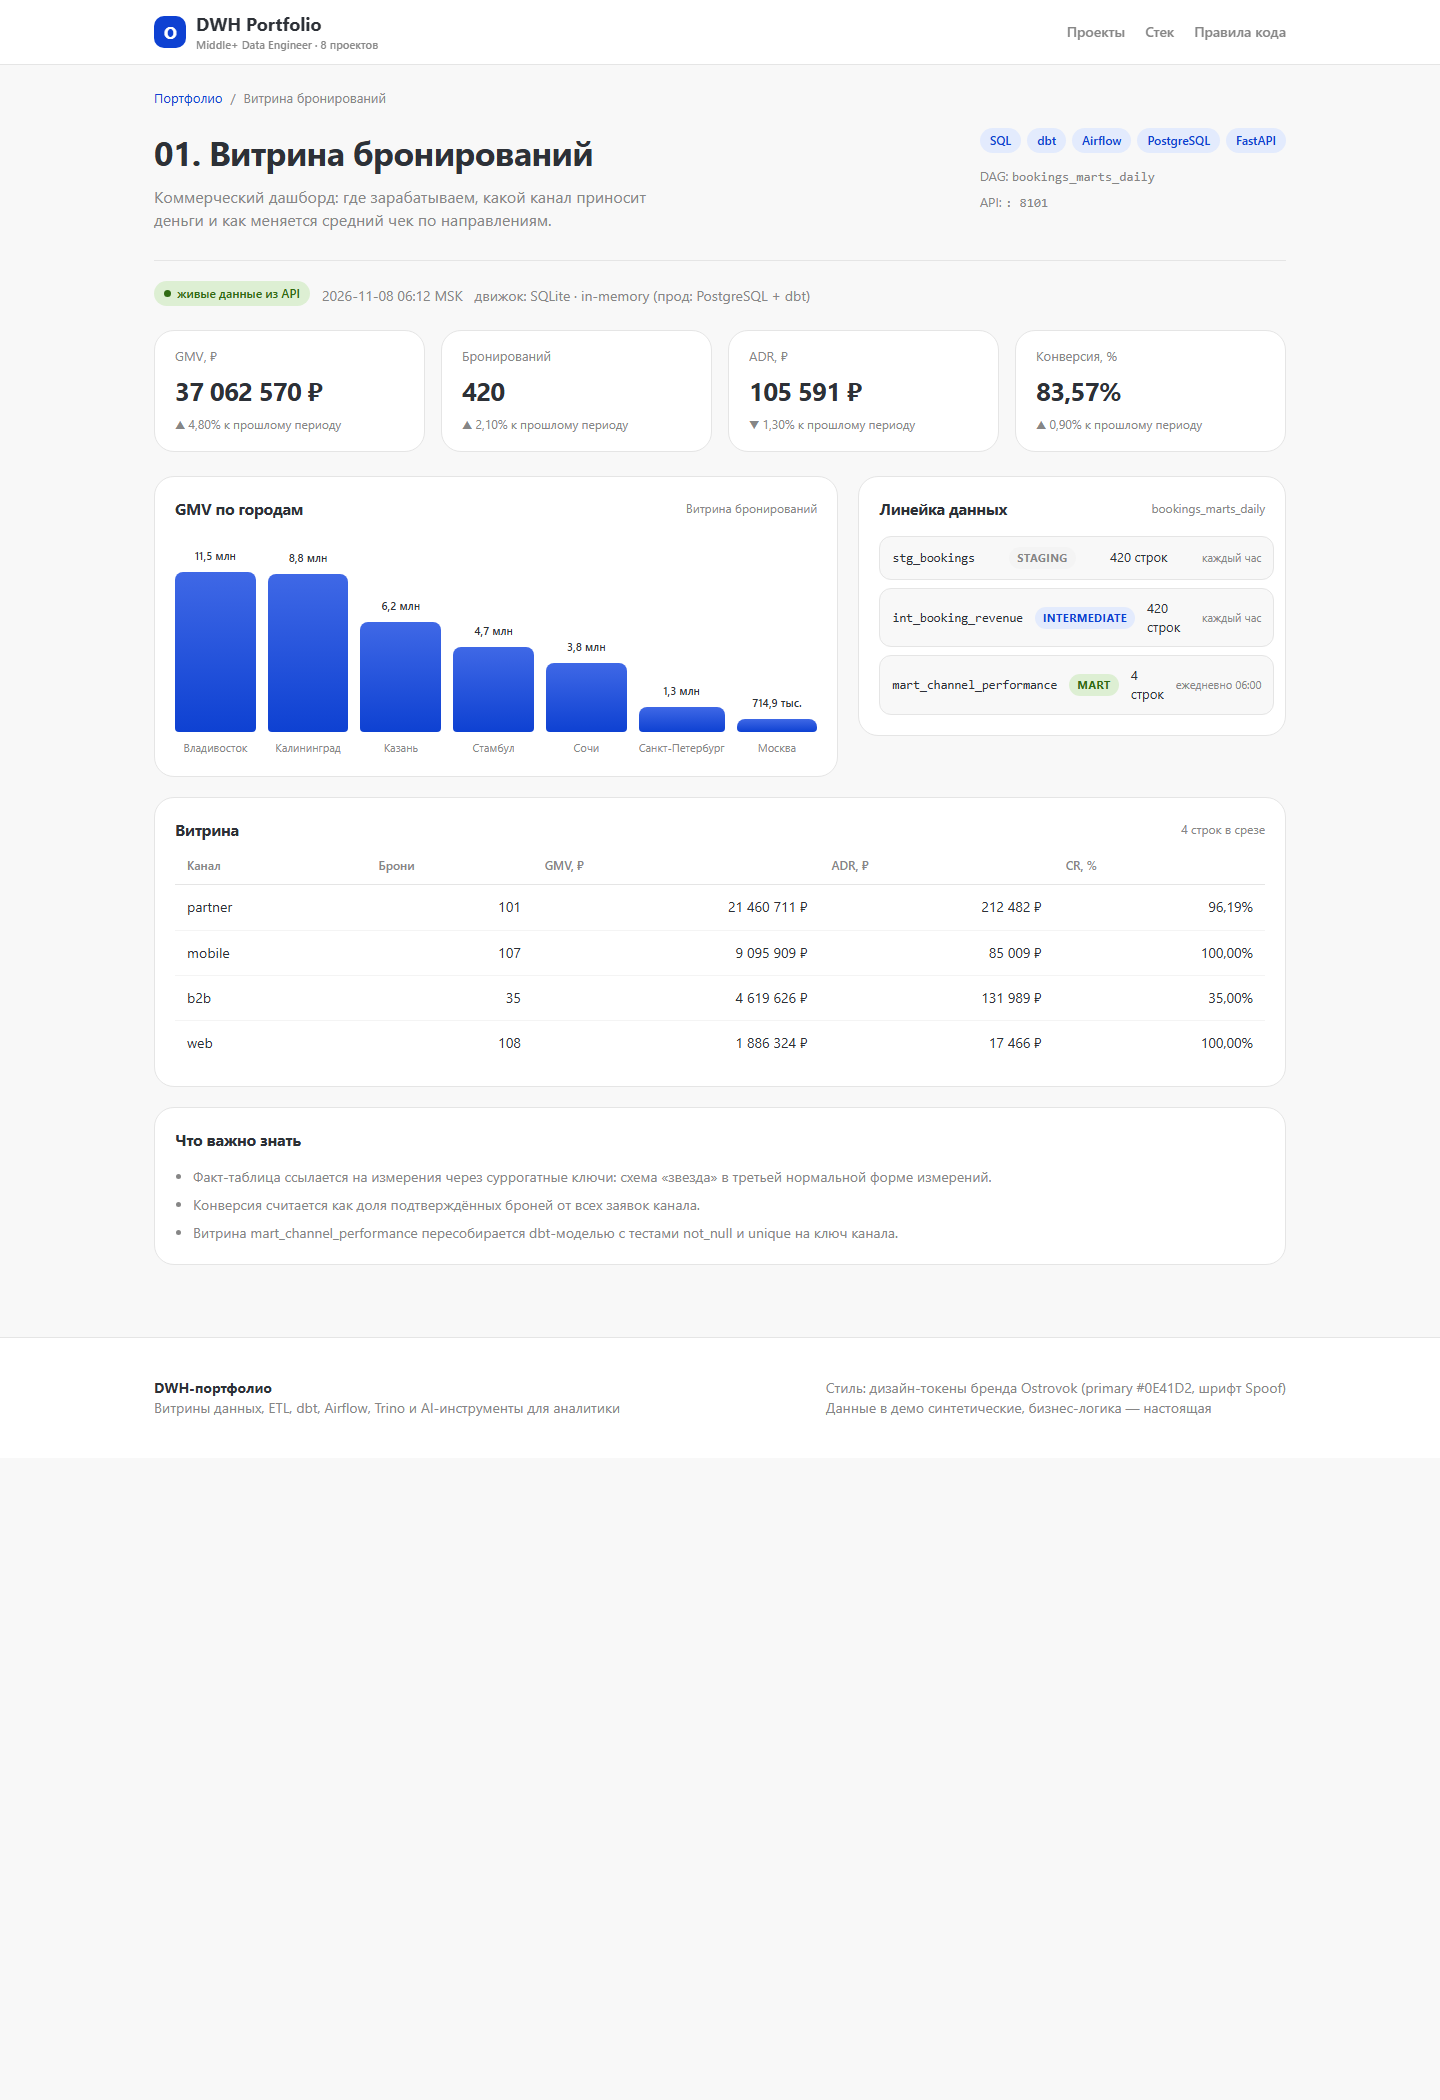
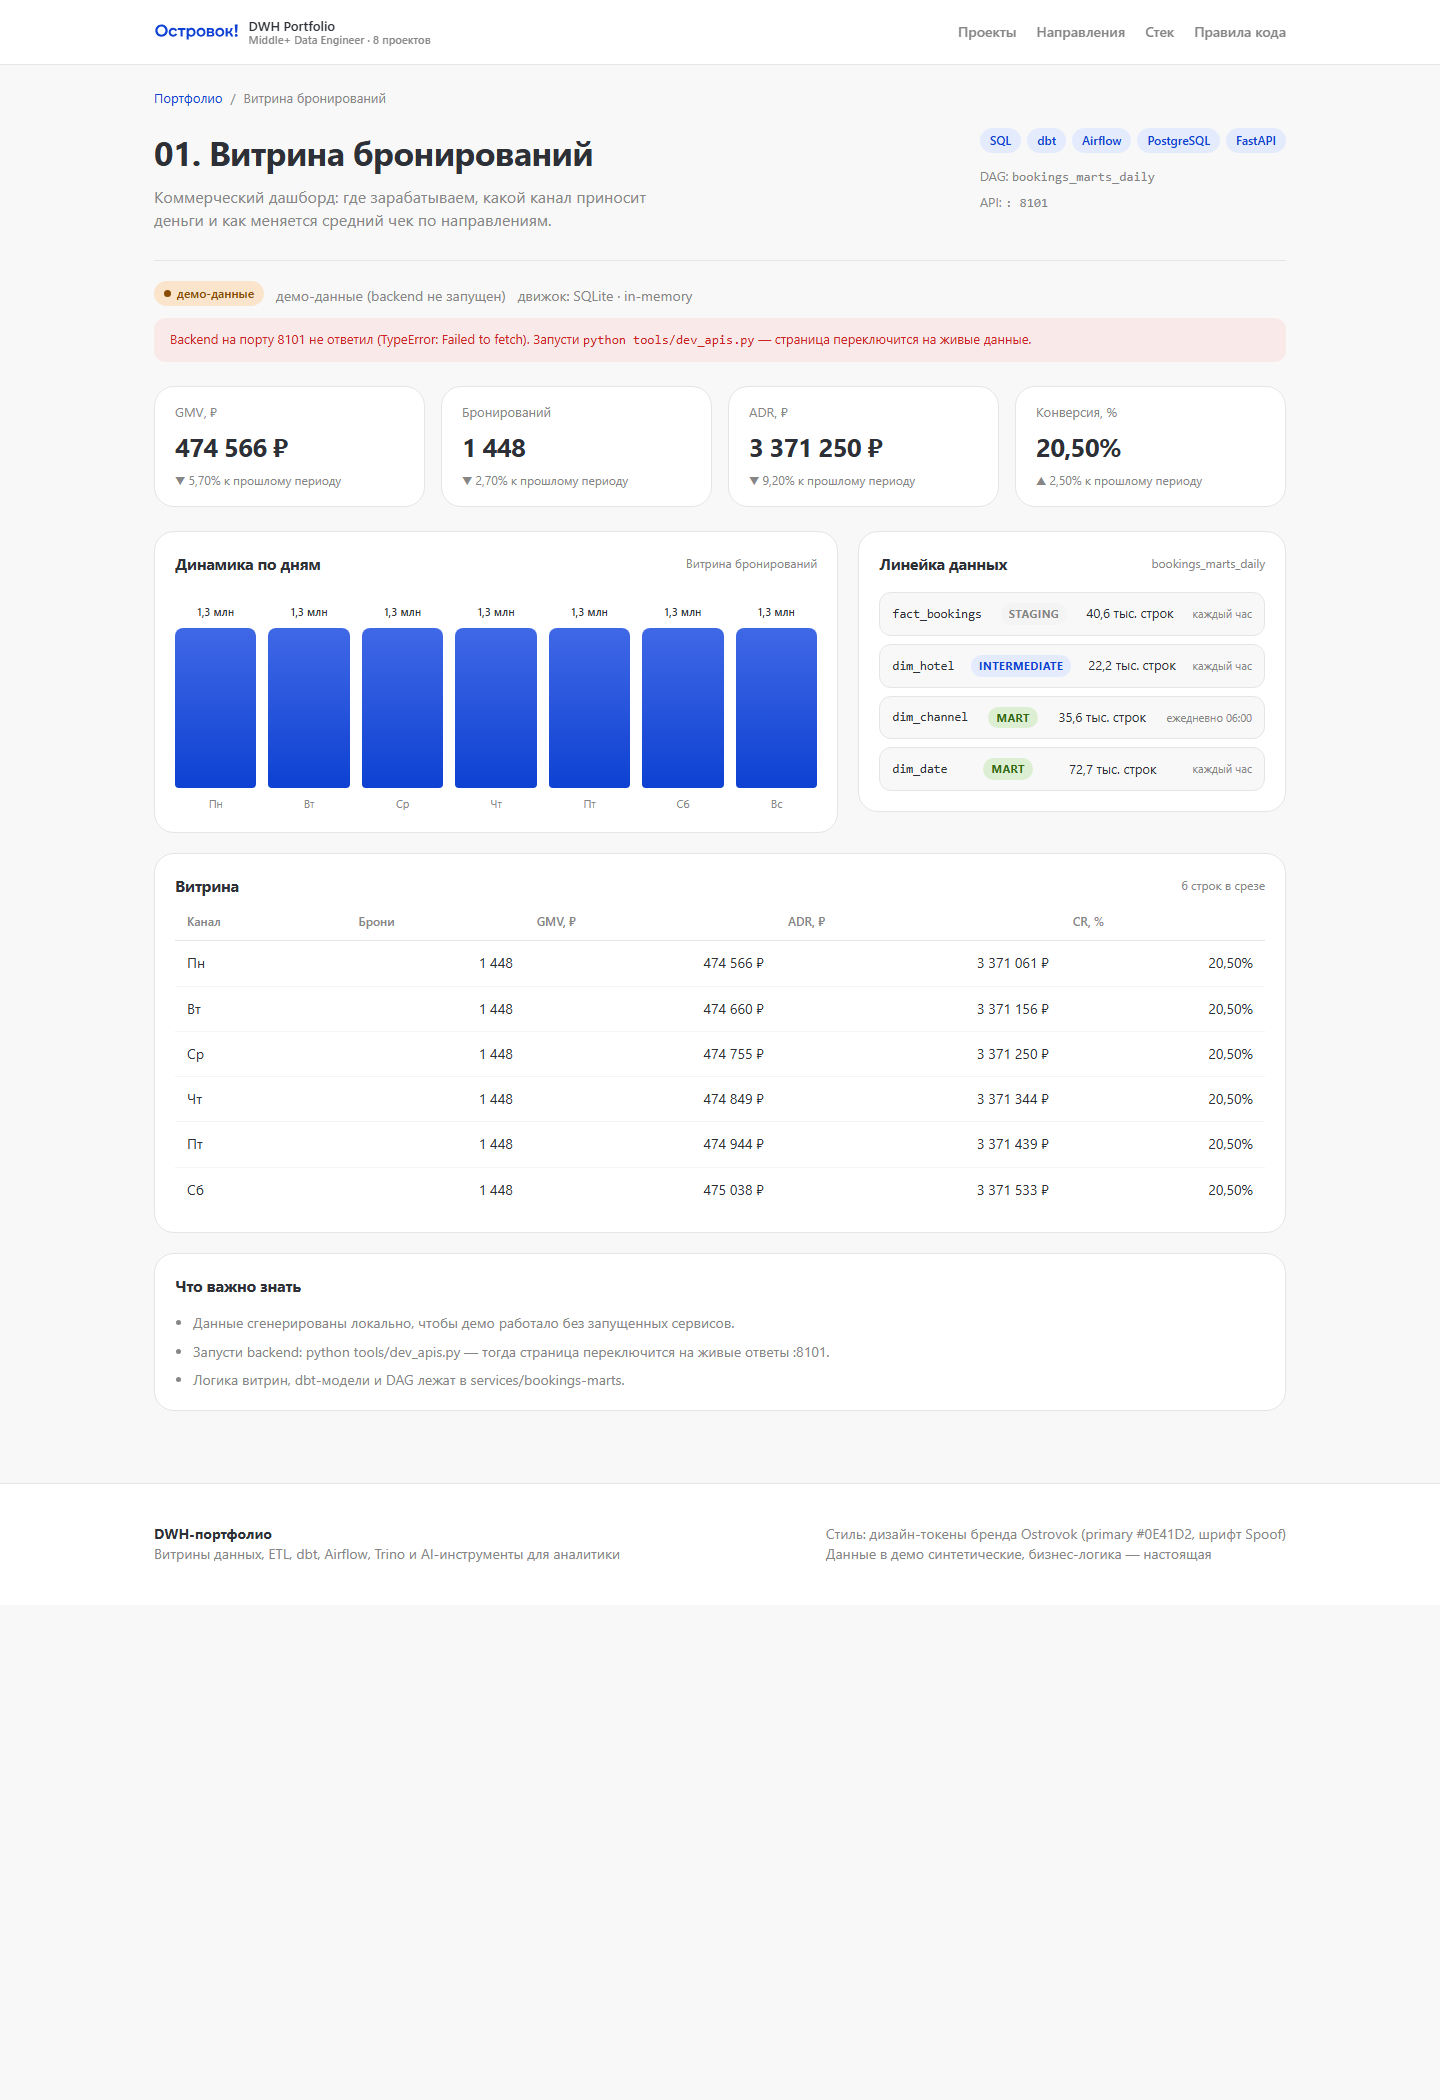
Добавить фирменные фото Островка: лендинг с направлениями и полоса фото в кокпите

diff --git a/apps/web/components/landing/hero.tsx b/apps/web/components/landing/hero.tsx
@@ -28,18 +28,27 @@ export const Hero = () => (
         </Link>
       </div>
     </div>
-    <div className="search-card">
-      <div className="panel-head" style={{ marginBottom: 0 }}>
-        <h2>Стек из вакансии → покрыт</h2>
-        <span>8/8</span>
-      </div>
-      <div className="stack-list">
-        {STACK_FROM_VACANCY.map((item) => (
-          <div key={item} className="pipeline-node">
-            <span>{item}</span>
-            <span className="layer layer-mart">есть</span>
-          </div>
-        ))}
+    <div className="stack" style={{ gap: 12 }}>
+      <figure className="photo-card hero-photo">
+        <img src="/brand/hero.jpg" alt="Направления Островка" />
+        <figcaption>
+          <b>Путешествия начинаются с данных</b>
+          <span>3 000 000+ вариантов размещения · 100 ТБ данных · 30 000 запросов в секунду</span>
+        </figcaption>
+      </figure>
+      <div className="search-card">
+        <div className="panel-head" style={{ marginBottom: 0 }}>
+          <h2>Стек из вакансии → покрыт</h2>
+          <span>8/8</span>
+        </div>
+        <div className="stack-list">
+          {STACK_FROM_VACANCY.map((item) => (
+            <div key={item} className="pipeline-node">
+              <span>{item}</span>
+              <span className="layer layer-mart">есть</span>
+            </div>
+          ))}
+        </div>
       </div>
     </div>
   </section>

diff --git a/apps/web/components/landing/destinations.tsx b/apps/web/components/landing/destinations.tsx
@@ -1,0 +1,31 @@
+const PLACES = [
+  { img: '/brand/tbilisi.jpg', city: 'Тбилиси', note: 'старый город и термы' },
+  { img: '/brand/kamchatka.jpg', city: 'Камчатка', note: 'вулканы и океан' },
+  { img: '/brand/kareliya.jpg', city: 'Карелия', note: 'озёра и леса' },
+  { img: '/brand/murmansk.jpg', city: 'Мурманск', note: 'северное сияние' },
+  { img: '/brand/bali.jpg', city: 'Бали', note: 'серфинг и рисовые террасы' },
+  { img: '/brand/phuket.jpg', city: 'Пхукет', note: 'пляжи Андаманского моря' },
+];
+
+export const DestinationsSection = () => (
+  <section id="destinations" style={{ marginBottom: 56 }}>
+    <div className="section-head">
+      <div>
+        <h2>Направления, которые считает витрина</h2>
+        <p>Каждая карточка — строка в витрине: брони, ADR, отмены и покрытие по направлению.</p>
+      </div>
+      <span className="tag tag-accent">фото с ostrovok.ru</span>
+    </div>
+    <div className="photo-grid">
+      {PLACES.map((place) => (
+        <figure className="photo-card" key={place.city}>
+          <img src={place.img} alt={place.city} loading="lazy" />
+          <figcaption>
+            <b>{place.city}</b>
+            <span>{place.note}</span>
+          </figcaption>
+        </figure>
+      ))}
+    </div>
+  </section>
+);

diff --git a/apps/web/app/globals.css b/apps/web/app/globals.css
@@ -735,3 +735,69 @@ pre.sql {
     flex-direction: column;
   }
 }
+
+.brand-logo {
+  height: 26px;
+  width: auto;
+  display: block;
+}
+
+.brand-sub {
+  display: block;
+  font-size: 13px;
+  font-weight: 600;
+  line-height: 1.2;
+}
+
+.photo-grid {
+  display: grid;
+  grid-template-columns: repeat(auto-fit, minmax(220px, 1fr));
+  gap: var(--sp-lg);
+}
+
+.photo-card {
+  margin: 0;
+  background: #fff;
+  border: 1px solid var(--neutral-10);
+  border-radius: var(--r-lg);
+  overflow: hidden;
+  box-shadow: var(--shadow-card);
+  transition: transform 0.16s ease, box-shadow 0.16s ease;
+}
+
+.photo-card:hover {
+  transform: translateY(-2px);
+  box-shadow: var(--shadow-pop);
+}
+
+.photo-card img {
+  display: block;
+  width: 100%;
+  height: 140px;
+  object-fit: cover;
+}
+
+.photo-card figcaption {
+  padding: 12px 14px;
+  display: grid;
+  gap: 2px;
+}
+
+.photo-card figcaption b {
+  font-size: 15px;
+}
+
+.photo-card figcaption span {
+  font-size: 12.5px;
+  color: var(--text-secondary);
+}
+
+.hero-photo img {
+  height: 190px;
+}
+
+@media (max-width: 940px) {
+  .photo-card img {
+    height: 120px;
+  }
+}

diff --git a/apps/cockpit/app/page.tsx b/apps/cockpit/app/page.tsx
@@ -5,6 +5,7 @@ import { DataGrid } from '@/components/data-grid';
 import { HealthStrip } from '@/components/health-strip';
 import { KpiTile } from '@/components/kpi-tile';
 import { PageHead } from '@/components/page-head';
+import { PhotoStrip } from '@/components/photo-strip';
 import { TrendChart } from '@/components/trend-chart';
 import { useScreen } from '@/lib/api';
 import type { Column, Overview } from '@/lib/types';
@@ -64,6 +65,14 @@ export default function OverviewPage() {
           <span>{data ? `${data.destinations.length} городов` : ''}</span>
         </div>
         <DataGrid columns={COLUMNS} rows={data?.destinations ?? []} />
+      </div>
+
+      <div className="card" style={{ marginTop: 12 }}>
+        <div className="card-head">
+          <h2>Популярные направления</h2>
+          <span>фото с ostrovok.ru</span>
+        </div>
+        <PhotoStrip />
       </div>
 
       <div className="card" style={{ marginTop: 12 }}>

diff --git a/apps/cockpit/app/globals.css b/apps/cockpit/app/globals.css
@@ -697,3 +697,52 @@ pre.sql {
     grid-template-columns: 1fr;
   }
 }
+
+.logo-image {
+  height: 24px;
+  width: auto;
+  display: block;
+}
+
+.logo-caption {
+  padding: 0 6px;
+  font-size: 13px;
+  font-weight: 600;
+  color: var(--text);
+  margin-top: -10px;
+}
+
+.logo-caption small {
+  display: block;
+  font-size: 11px;
+  font-weight: 500;
+  color: var(--text-secondary);
+}
+
+.photo-strip {
+  display: grid;
+  grid-template-columns: repeat(auto-fit, minmax(120px, 1fr));
+  gap: 10px;
+}
+
+.photo-tile {
+  margin: 0;
+  border-radius: var(--r-md);
+  overflow: hidden;
+  border: 1px solid var(--line);
+  background: var(--surface);
+}
+
+.photo-tile img {
+  display: block;
+  width: 100%;
+  height: 84px;
+  object-fit: cover;
+}
+
+.photo-tile figcaption {
+  padding: 6px 9px;
+  font-size: 11.5px;
+  font-weight: 600;
+  color: var(--text);
+}

diff --git a/apps/web/components/site-header.tsx b/apps/web/components/site-header.tsx
@@ -4,14 +4,15 @@ export const SiteHeader = () => (
   <header className="header">
     <div className="page header-inner">
       <Link href="/" className="brand">
-        <span className="brand-mark">О</span>
-        <span>
+        <img className="brand-logo" src="/brand/logo.svg" alt="Островок" width={124} height={26} />
+        <span className="brand-sub">
           DWH Portfolio
           <small>Middle+ Data Engineer · 8 проектов</small>
         </span>
       </Link>
       <nav className="nav">
         <Link href="/#projects">Проекты</Link>
+        <Link href="/#destinations">Направления</Link>
         <Link href="/#stack">Стек</Link>
         <Link href="/#quality">Правила кода</Link>
       </nav>

diff --git a/apps/cockpit/components/photo-strip.tsx b/apps/cockpit/components/photo-strip.tsx
@@ -1,0 +1,19 @@
+const PLACES = [
+  { img: '/brand/tbilisi.jpg', city: 'Тбилиси' },
+  { img: '/brand/kamchatka.jpg', city: 'Камчатка' },
+  { img: '/brand/kareliya.jpg', city: 'Карелия' },
+  { img: '/brand/murmansk.jpg', city: 'Мурманск' },
+  { img: '/brand/bali.jpg', city: 'Бали' },
+  { img: '/brand/phuket.jpg', city: 'Пхукет' },
+];
+
+export const PhotoStrip = () => (
+  <div className="photo-strip">
+    {PLACES.map((place) => (
+      <figure className="photo-tile" key={place.city}>
+        <img src={place.img} alt={place.city} loading="lazy" />
+        <figcaption>{place.city}</figcaption>
+      </figure>
+    ))}
+  </div>
+);

diff --git a/apps/cockpit/components/sidebar.tsx b/apps/cockpit/components/sidebar.tsx
@@ -27,11 +27,11 @@ export const Sidebar = () => {
   return (
     <aside className="sidebar">
       <div className="logo">
-        <span className="logo-mark">О</span>
-        <span>
-          Кокпит
-          <small>Ostrovok · DWH</small>
-        </span>
+        <img className="logo-image" src="/brand/logo.svg" alt="Островок" width={112} height={24} />
+      </div>
+      <div className="logo-caption">
+        Кокпит
+        <small>Ostrovok · DWH</small>
       </div>
       <nav className="nav">
         {SECTIONS.map((section) => (

diff --git a/apps/web/app/page.tsx b/apps/web/app/page.tsx
@@ -1,3 +1,4 @@
+import { DestinationsSection } from '@/components/landing/destinations';
 import { Hero } from '@/components/landing/hero';
 import { ProjectsSection } from '@/components/landing/projects-section';
 import { QualitySection } from '@/components/landing/quality-section';
@@ -13,6 +14,7 @@ const Home = () => (
       <Hero />
       <StatsStrip />
       <ProjectsSection />
+      <DestinationsSection />
       <StackTable />
       <QualitySection />
     </main>

diff --git a/README.md b/README.md
@@ -78,6 +78,11 @@ AI в аналитике, Python + React/Next.js.
 - шрифт бренда — **Spoof** (`font-family:Spoof` из CSS), с системным фолбэком
 - статусные цвета: success `#53AF24`, warning `#E77D00`, alert `#CE2121`
 
+Логотип, hero-фото и фотографии направлений взяты с ostrovok.ru и лежат в `apps/web/public/brand/`
+(копия — в `apps/cockpit/public/brand/`): `logo.svg`, `hero.jpg`, `tbilisi.jpg`, `kamchatka.jpg`,
+`kareliya.jpg`, `murmansk.jpg`, `bali.jpg`, `phuket.jpg`. На лендинге из них собрана секция «Направления»,
+в кокпите — полоса «Популярные направления» на сводке.
+
 ## Правила кода (проверяются автоматически)
 
 | Правило | TypeScript / JSX | Python |
